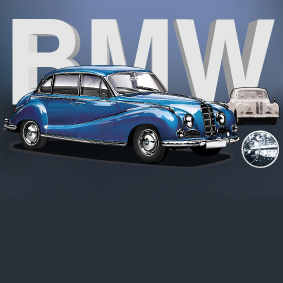
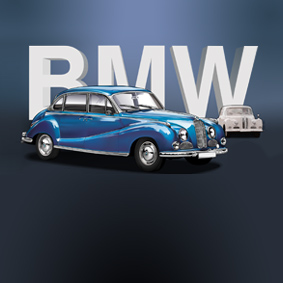
Portfolio update

diff --git a/_projects/1617__cmo__salad-style.md b/_projects/1617__cmo__salad-style.md
@@ -1,13 +1,13 @@
 ---
-title: A salad is not a meal
+title: "A salad is not a meal"
 slug: "salad-style"
-description: De opdracht hield in dat er een banner voor de Facebook groep van de klas moest worden gemaakt.
-type: "intern"
+description: "Het voedingsbedrijf Vandemoortele kwam aankloppen bij de laatstejaarsstudenten CMO met de vraag om een etiket te ontwerpen voor hun 'Salad In A Jar'. "
+type: "extern"
 members:
-    - name: "Elena Van H"
+    - name: "Elena Vanhauwaert"
       direction: "Cross-Media Ontwerp"
       subdirection: "Graphic Design"
-      disk: "2e Schijf"
+      disk: "Schijf 3"
 thumbnail:
     url: "thumb.jpg"
     alt: ""
@@ -18,7 +18,7 @@ thumbnail:
 media:
     - url: "1.salad.jpg"
       type: "image"
-      text: "Started with an idea, worked out a sketch and digitalized it."
+      text: "Een aantal opties en varianten werden aan de klant voorgelegd."
 created: 20/01/2017
 order: 5
 ---

diff --git a/_projects/1617__cmo__memorial-van-damme-ls.md b/_projects/1617__cmo__memorial-van-damme-ls.md
@@ -1,7 +1,7 @@
 ---
 title: Memorial Van Damme 40ste Editie
 slug: "memorial-van-damme-ls"
-description: ""
+description: "De studenten 2CMO namen in 2016 deel aan de wedstrijd die op zoek gaat naar het campagnebeeld voor de 40ste editie van de Memorial Van Damme"
 type: "extern"
 members:
     - name: "Laurens Segaert"
@@ -9,17 +9,15 @@ members:
       subdirection: "Graphic Design"
       disk: "2e Schijf"
 thumbnail:
-    url: "thumb.jpg"
+    url: "thumb.gif"
     alt: ""
     height: 1
-    width: 1
-    text-color: "2fb1b1"
-    background-color: "2fb1b1"
+    width: 2
+    text-color: "00aae4"
+    background-color: "07284e"
 media:
-    - url: "1.visual.png"
-      type: "image"
-    - url: "2.poster.jpg"
+    - url: "poster-memorial-ls.png"
       type: "image"
 created: 20/01/2017
-order: 4
+order: 10
 ---

diff --git a/_projects/1617__cmo__memorial-van-damme-lr.md b/_projects/1617__cmo__memorial-van-damme-lr.md
@@ -1,7 +1,7 @@
 ---
-title: Memorial Van Damme 40ste Editie
+title: Memorial Van Damme poste
 slug: "memorial-van-damme-lr"
-description: ""
+description: "De studenten 2CMO namen deel aan de wedstrijd die op zoek gaat naar het campagnebeeld voor de 40ste editie van de Memorial Van Damme"
 type: "extern"
 members:
     - name: "Linde Raats"
@@ -12,9 +12,9 @@ thumbnail:
     url: "thumb.jpg"
     alt: ""
     height: 1
-    width: 2
-    text-color: "055b92"
-    background-color: "055b92"
+    width: 1
+    text-color: "f2950b"
+    background-color: "f2950b"
 media:
     - url: "1.memorial.png"
       type: "image"

diff --git a/_projects/1617__cmo__memorial-van-damme-vw.md b/_projects/1617__cmo__memorial-van-damme-vw.md
@@ -1,7 +1,7 @@
 ---
 title: Memorial Van Damme 40ste Editie
 slug: "memorial-van-damme-wv"
-description: ""
+description: "De studenten 2CMO namen in 2016 deel aan de wedstrijd die op zoek gaat naar het campagnebeeld voor de 40ste editie van de Memorial Van Damme"
 type: "extern"
 members:
     - name: "Wannes Vansteenhuyse"
@@ -16,8 +16,6 @@ thumbnail:
     text-color: "d9681c"
     background-color: "d9681c"
 media:
-    - url: "1.visual.png"
-      type: "image"
     - url: "2.poster.jpg"
       type: "image"
 created: 20/01/2017

diff --git a/_projects/1617__cmo__bmw.md b/_projects/1617__cmo__bmw.md
@@ -14,7 +14,7 @@ thumbnail:
     height: 1
     width: 1
     text-color: "344072"
-    background-color: "344072"
+    background-color: "0a0b0e"
 media:
     - url: "1.visual.png"
       type: "image"
